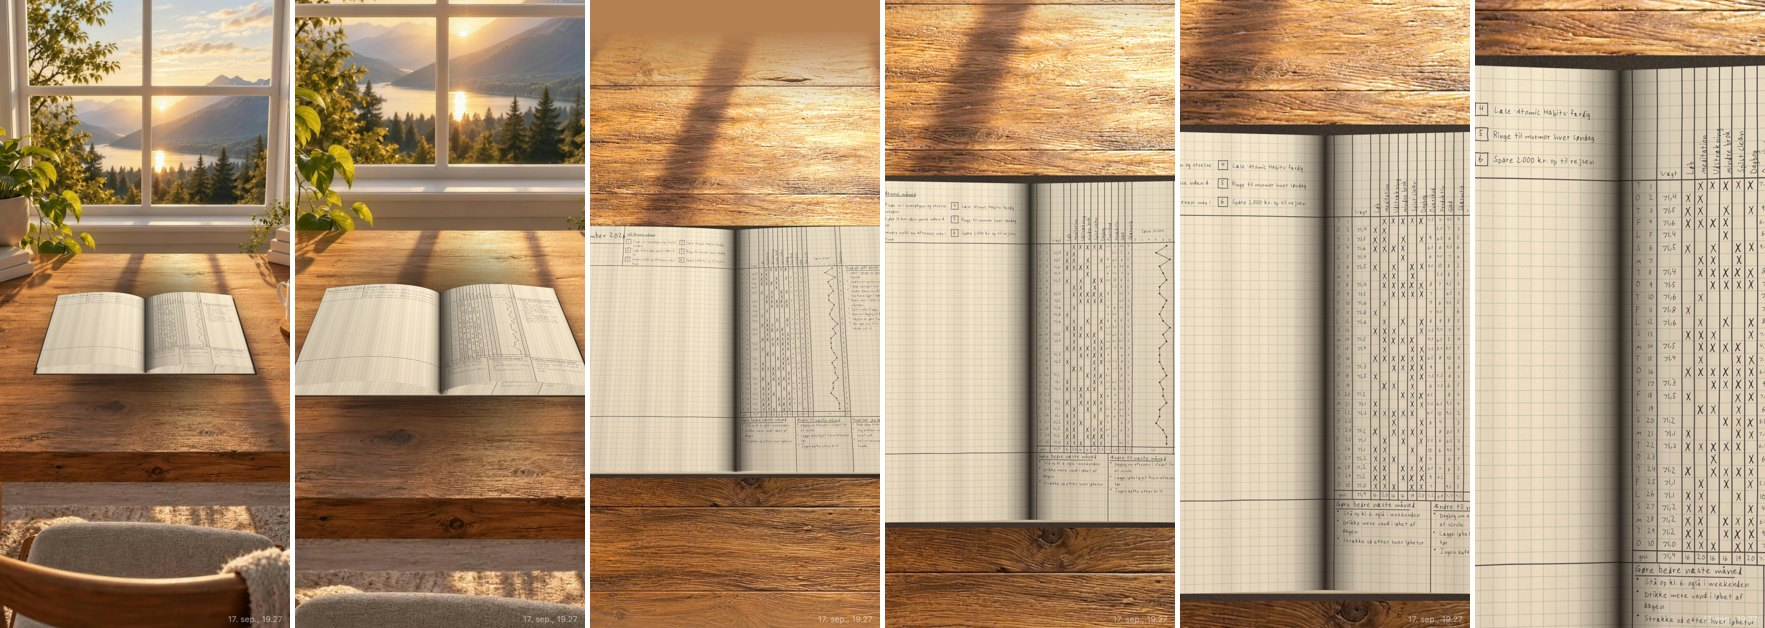
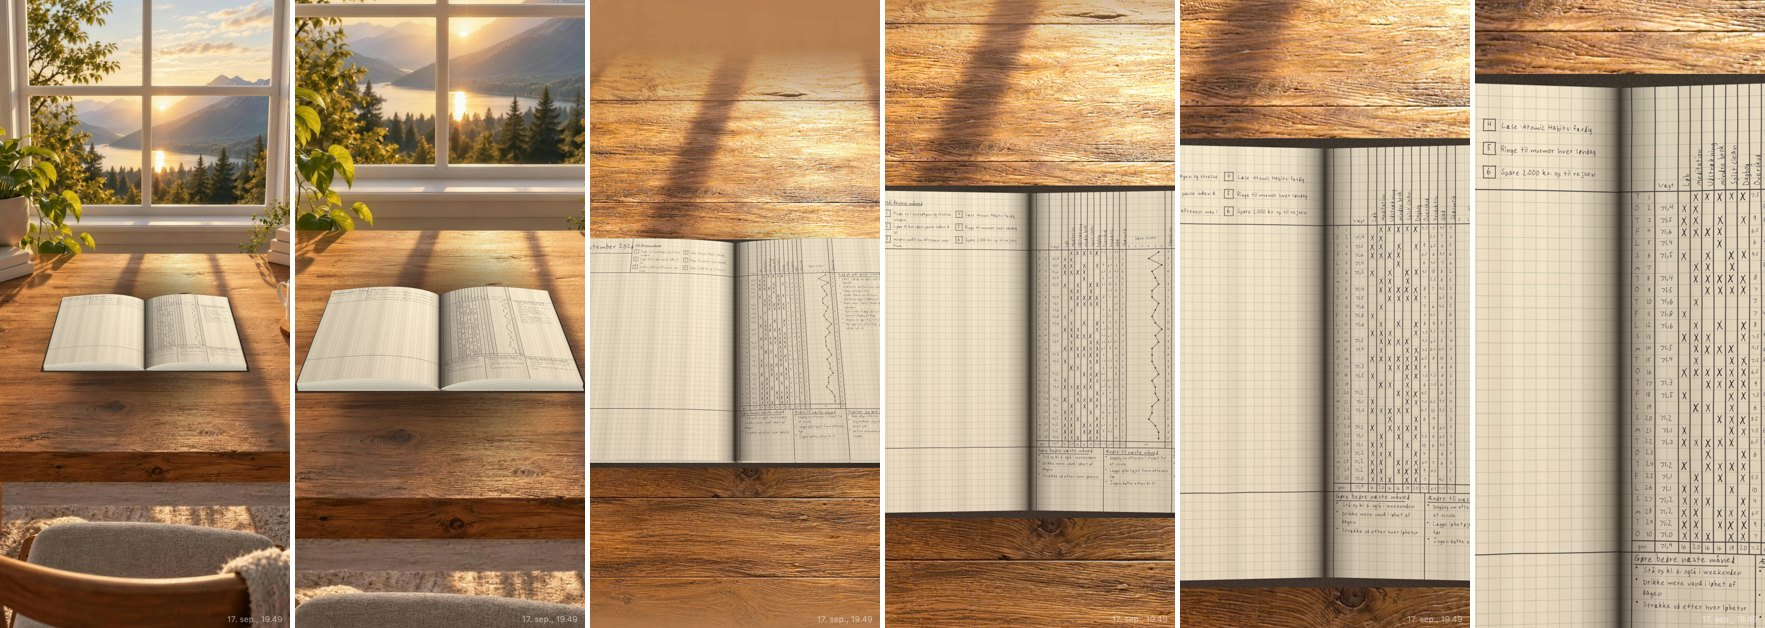
Bog3d runde 2 efter Lukas' feedback: rigtige papirlag i kanten, mindre bog, lysere fold, glattere zoom
- Den GAMLE flade sidestak (edge() i drawCover) tegnes ikke laengere i 3D. Den laa oven paa den nye og var det
  Lukas saa: sidens gitter og dens streger loeb ned over bogens tykkelse.
- Sidestakken er nu ark med en fast tykkelse i verdens-px, baaret som afstand ned fra sidens kant. Foer var den
  en 0..1-andel af et skoert der bliver tyndere mod ryggen, hvilket gav et moire-moenster. Tykkelsen aabnes op,
  naar man zoomer ud, saa to linjer aldrig kommer taettere end ca. 3 skaerm-px.
- Tegnerkkefoelge: braet, saa stak, saa sider. Braettet er bredere end stakken, saa tegnet sidst malede det hen
  over den, og stakken var naesten usynlig.
- Bogen ca. 6 procent mindre (BG i layout.ts). Folden lysere (FOLD_DARK 0,46 til 0,30).
- Bogen blev helt lille under pinch: midt i en pinch genbruger fitCanvas bufferen i en stoerre stoerrelse end det
  tegnede udsnit, men teksturen fik kun udsnittets maal, saa opslaget blev klemt ned i en broekdel af sin
  stoerrelse. Rektanglet daekker nu hele bufferen.
- Hakket: buen ligger nu i vertex-shaderen, saa mesh'et bygges EEN gang i stedet for ved hvert helt verdens-px af
  bue (54 genopbygninger pr. pinch). Og teksturen fornys ikke laengere ved udzoom, hvor den gamle kun kan vaere
  for skarp. Maalt: pinch-ud 2/132 frames over 33 ms (9 foer), pinch-ind 4/129 (som den gamle bog).

Changed region(s): [[0.3116, 0.0, 1.0, 1.0], [0.0, 0.4538, 0.3428, 0.6354], [0.1246, 0.9682, 0.1558, 0.9984]]

diff --git a/src/bog3d.ts b/src/bog3d.ts
@@ -30,27 +30,56 @@ const BOW = 0.7; // s^BOW inside the sine: < 1 moves the top of the arch towards
 const LIP = 10;
 
 const SEG_X = 56, SEG_Y = 10; // segments per page: across the curve, and along it
+/** How dark the fold goes, and the thinnest a sheet is allowed to look (world px). */
+const FOLD_DARK = 0.3;
+const SHEET_MIN = 1.8;
 
 /** Height of the page surface above the table, at distance `s` (0 at the spine, 1 at the fore-edge). */
 export const pageZ = (s: number, arch: number) =>
   COVER_T + STACK * s + arch * Math.sin(Math.PI * Math.pow(Math.max(0, Math.min(1, s)), BOW));
 
 const VERT = `
-attribute vec3 a_pos;      // x, y in spread coordinates; z in world px (already curved)
-attribute vec2 a_uv;       // 0..1 over the spread
-attribute float a_shade;   // 1 = full light, lower = in shadow
+attribute vec3 a_pos;      // x, y in spread coordinates; z = s, the distance from the spine (0..1)
+attribute vec3 a_meta;     // x: 0 lies on the board, 1 follows the page curve
+                           // y: fixed shade, or 0 to work it out from the slope
+                           // z: 0..1 across the page stack, for the sheet lines
 uniform vec2 u_view;       // where the spread's origin sits on screen
 uniform float u_scale;     // world px -> screen px
 uniform vec2 u_origin;     // the book's centre on screen: the tilt turns about it, as the CSS transform-origin did
 uniform vec2 u_trig;       // cos, sin of the tilt
 uniform float u_persp;     // perspective distance in screen px
 uniform vec2 u_res;        // canvas size in px
+uniform float u_foldDark;  // how deep the shadow in the fold goes
 uniform vec4 u_tex;        // the part of the spread the texture covers: x, y, w, h in spread coordinates
+uniform vec4 u_book;       // coverT, stack, arch, pageW: the shape of the open page
+uniform float u_spine;     // x of the fold, in spread coordinates
 varying vec2 v_uv;
 varying float v_shade;
+varying float v_layer;
+
+/** Height of the page above the board at distance s from the spine. */
+float pageZ(float s) {
+  s = clamp(s, 0.0, 1.0);
+  return u_book.x + u_book.y * s + u_book.z * sin(3.14159265 * pow(max(s, 0.0005), 0.7));
+}
+
 void main() {
+  float s = a_pos.z;
+  float z = a_meta.x < 0.5 ? u_book.x : pageZ(s);
+  if (a_meta.y > 0.0) {
+    v_shade = a_meta.y;
+  } else {
+    // the window is behind the book, so a slope facing away from the viewer catches the light and the fold is dark
+    float slope = (pageZ(s + 0.01) - pageZ(s - 0.01)) / (0.02 * u_book.w);
+    float dir = a_pos.x < u_spine ? -1.0 : 1.0;
+    float fold = 1.0 - min(1.0, s * 6.0);
+    v_shade = clamp(1.0 + (-dir * slope) * 0.55 - fold * fold * u_foldDark, 0.6, 1.06);
+  }
+  // the sheets have a real thickness, so the lines must keep their spacing all the way along the skirt: carry
+  // the distance DOWN from the page rim, in world px, not a 0..1 share of a skirt that thins out at the fold
+  v_layer = a_meta.z * (pageZ(s) - u_book.x);
   vec2 flat_px = u_view + a_pos.xy * u_scale;
-  float h = a_pos.z * u_scale;
+  float h = z * u_scale;
   vec2 d = flat_px - u_origin;
   float ry = d.y * u_trig.x - h * u_trig.y;
   float rz = d.y * u_trig.y + h * u_trig.x;
@@ -59,24 +88,31 @@ void main() {
   gl_Position = vec4((sp / u_res) * 2.0 - 1.0, 0.0, 1.0);
   gl_Position.y = -gl_Position.y;
   v_uv = (a_pos.xy - u_tex.xy) / u_tex.zw;
-  v_shade = a_shade;
 }`;
 
 const FRAG = `
 precision mediump float;
 varying vec2 v_uv;
 varying float v_shade;
+varying float v_layer;
 uniform sampler2D u_img;
 uniform vec4 u_flat;       // when a > 0: ignore the texture and use this colour (the page stack)
+uniform float u_sheets;    // one sheet every this many world px, widened when zoomed out so the lines never alias
 void main() {
   // zoomed in, the texture holds only the visible slice of the spread; the rest of the mesh is off screen anyway
   if (u_flat.a <= 0.0 && (v_uv.x < 0.0 || v_uv.x > 1.0 || v_uv.y < 0.0 || v_uv.y > 1.0)) discard;
-  vec4 c = u_flat.a > 0.0 ? vec4(u_flat.rgb, 1.0) : texture2D(u_img, v_uv);
+  if (u_flat.a > 0.0) {
+    // the page stack seen edge on: sheet after sheet lying on each other, never the page's own grid
+    float sheet = 0.86 + 0.14 * sin(v_layer / u_sheets * 6.2831853);
+    gl_FragColor = vec4(u_flat.rgb * v_shade * sheet, 1.0);
+    return;
+  }
+  vec4 c = texture2D(u_img, v_uv);
   if (c.a < 0.01) discard;
   gl_FragColor = vec4(c.rgb * v_shade, c.a);
 }`;
 
-type Mesh = { pos: Float32Array; shade: Float32Array; idx: Uint16Array; n: number };
+type Mesh = { pos: Float32Array; meta: Float32Array; idx: Uint16Array; n: number };
 
 function compile(gl: WebGLRenderingContext, type: number, src: string) {
   const sh = gl.createShader(type)!;
@@ -86,74 +122,64 @@ function compile(gl: WebGLRenderingContext, type: number, src: string) {
 }
 
 /**
- * Build the whole book for one arch height. Rebuilt whenever the arch changes, which is cheap: a few thousand
- * numbers, and only when the camera actually tips.
+ * The cover board and the two pages. Built once: the vertices carry `s`, the distance from the spine, and the
+ * shader turns that into a height, so changing the arch costs nothing.
+ *   a_pos  = x, y, s        a_meta = onCurve, fixedShade (0 = from the slope), layer
  */
-function build(arch: number): Mesh {
-  const pos: number[] = [], shade: number[] = [], idx: number[] = [];
-  const push = (x: number, y: number, z: number, sh: number) => { pos.push(x, y, z); shade.push(sh); return pos.length / 3 - 1; };
-  const quad = (a: number, b: number, c: number, d: number) => idx.push(a, b, c, a, c, d);
+function buildCover(): Mesh {
+  const pos = [-LIP, -LIP, 0, BOOK_W + LIP, -LIP, 0, BOOK_W + LIP, BOOK_H + LIP, 0, -LIP, BOOK_H + LIP, 0];
+  const meta = [0, 1, 0, 0, 1, 0, 0, 1, 0, 0, 1, 0];
+  const idx = [0, 1, 2, 0, 2, 3];
+  return { pos: new Float32Array(pos), meta: new Float32Array(meta), idx: new Uint16Array(idx), n: 6 };
+}
 
-  // the cover board, a little larger than the pages, lying flat
-  const c0 = push(-LIP, -LIP, COVER_T, 1);
-  const c1 = push(BOOK_W + LIP, -LIP, COVER_T, 1);
-  const c2 = push(BOOK_W + LIP, BOOK_H + LIP, COVER_T, 1);
-  const c3 = push(-LIP, BOOK_H + LIP, COVER_T, 1);
-  quad(c0, c1, c2, c3);
-
-  const top = COVER, bot = COVER + PAGE_H, spine = BOOK_W / 2;
-  // light: the window is behind the book, so the slope facing away from the viewer catches it and the fold is dark
-  const lightAt = (s: number, dir: number) => {
-    const slope = (pageZ(s + 0.01, arch) - pageZ(s - 0.01, arch)) / (0.02 * PAGE_W);
-    const facing = -dir * slope;                     // > 0 when the surface tilts away from the viewer
-    const fold = 1 - Math.min(1, s * 6);             // the last bit into the fold, where little light reaches
-    return Math.max(0.52, Math.min(1.06, 1.0 + facing * 0.55 - fold * fold * 0.46));
+function buildPages(): Mesh {
+  const pos: number[] = [], meta: number[] = [], idx: number[] = [];
+  const push = (x: number, y: number, s: number, curve: number, shade: number) => {
+    pos.push(x, y, s); meta.push(curve, shade, 0); return pos.length / 3 - 1;
   };
-
-  for (const dir of [-1, 1]) {                        // left page, then right
+  const quad = (a: number, b: number, c: number, d: number) => idx.push(a, b, c, a, c, d);
+  const top = COVER, bot = COVER + PAGE_H, spine = BOOK_W / 2;
+  for (const dir of [-1, 1]) {
     const grid: number[][] = [];
     for (let i = 0; i <= SEG_X; i++) {
-      const s = i / SEG_X;
-      const x = spine + dir * s * PAGE_W;
-      const z = pageZ(s, arch);
-      const sh = lightAt(s, dir);
-      const col: number[] = [];
-      for (let j = 0; j <= SEG_Y; j++) col.push(push(x, top + ((bot - top) * j) / SEG_Y, z, sh));
+      const s = i / SEG_X, x = spine + dir * s * PAGE_W, col: number[] = [];
+      for (let j = 0; j <= SEG_Y; j++) col.push(push(x, top + ((bot - top) * j) / SEG_Y, s, 1, 0));
       grid.push(col);
     }
     for (let i = 0; i < SEG_X; i++)
       for (let j = 0; j < SEG_Y; j++)
         quad(grid[i][j], grid[i + 1][j], grid[i + 1][j + 1], grid[i][j + 1]);
   }
-  return { pos: new Float32Array(pos), shade: new Float32Array(shade), idx: new Uint16Array(idx), n: idx.length };
+  return { pos: new Float32Array(pos), meta: new Float32Array(meta), idx: new Uint16Array(idx), n: idx.length };
 }
 
-/** The page stack: a skirt from each sheet's rim down to the board, in its own colour (no page content on it). */
-function buildEdges(arch: number): Mesh {
-  const pos: number[] = [], shade: number[] = [], idx: number[] = [];
-  const push = (x: number, y: number, z: number, sh: number) => { pos.push(x, y, z); shade.push(sh); return pos.length / 3 - 1; };
+/** The page stack: a skirt from each sheet's rim down to the board. `layer` runs 0..1 across it, which is what
+ *  draws the individual sheets in the fragment shader. */
+function buildEdges(): Mesh {
+  const pos: number[] = [], meta: number[] = [], idx: number[] = [];
+  const push = (x: number, y: number, s: number, curve: number, shade: number, layer: number) => {
+    pos.push(x, y, s); meta.push(curve, shade, layer); return pos.length / 3 - 1;
+  };
   const quad = (a: number, b: number, c: number, d: number) => idx.push(a, b, c, a, c, d);
   const top = COVER, bot = COVER + PAGE_H, spine = BOOK_W / 2;
 
   for (const dir of [-1, 1]) {
     const xo = spine + dir * PAGE_W;                  // the fore-edge
-    const zo = pageZ(1, arch);
     // fore-edge: straight down to the board
-    const a = push(xo, top, zo, 1.0), b = push(xo, bot, zo, 0.98);
-    const c = push(xo, bot, COVER_T, 0.72), d = push(xo, top, COVER_T, 0.76);
-    quad(a, b, c, d);
+    quad(push(xo, top, 1, 1, 1.0, 0), push(xo, bot, 1, 1, 0.98, 0),
+         push(xo, bot, 1, 0, 0.74, 1), push(xo, top, 1, 0, 0.78, 1));
     // the long edges, top and bottom: they follow the curve, so one quad per segment
-    for (const [y, sh] of [[top, 0.7], [bot, 1.0]] as const) {
+    for (const [y, sh] of [[top, 0.84], [bot, 1.06]] as const) {
       for (let i = 0; i < SEG_X; i++) {
         const s0 = i / SEG_X, s1 = (i + 1) / SEG_X;
         const x0 = spine + dir * s0 * PAGE_W, x1 = spine + dir * s1 * PAGE_W;
-        const p0 = push(x0, y, pageZ(s0, arch), sh), p1 = push(x1, y, pageZ(s1, arch), sh);
-        const p2 = push(x1, y, COVER_T, sh * 0.78), p3 = push(x0, y, COVER_T, sh * 0.78);
-        quad(p0, p1, p2, p3);
+        quad(push(x0, y, s0, 1, sh, 0), push(x1, y, s1, 1, sh, 0),
+             push(x1, y, s1, 0, sh * 0.8, 1), push(x0, y, s0, 0, sh * 0.8, 1));
       }
     }
   }
-  return { pos: new Float32Array(pos), shade: new Float32Array(shade), idx: new Uint16Array(idx), n: idx.length };
+  return { pos: new Float32Array(pos), meta: new Float32Array(meta), idx: new Uint16Array(idx), n: idx.length };
 }
 
 export type Book3D = {
@@ -180,12 +206,13 @@ export function createBook3D(canvas: HTMLCanvasElement, persp: number): Book3D |
   const U = {
     view: loc("u_view"), scale: loc("u_scale"), origin: loc("u_origin"), trig: loc("u_trig"),
     persp: loc("u_persp"), res: loc("u_res"), tex: loc("u_tex"), flat: loc("u_flat"), img: loc("u_img"),
+    book: loc("u_book"), spine: loc("u_spine"), fold: loc("u_foldDark"), sheets: loc("u_sheets"),
   };
-  const aPos = gl.getAttribLocation(prog, "a_pos"), aShade = gl.getAttribLocation(prog, "a_shade");
+  const aPos = gl.getAttribLocation(prog, "a_pos"), aMeta = gl.getAttribLocation(prog, "a_meta");
   /** One set of buffers per mesh, so a frame that changes nothing only binds them. Re-uploading both meshes
    *  every frame cost ~45 ms on roughly every ninth frame of a pinch. */
-  const slot = () => ({ pos: gl.createBuffer()!, shade: gl.createBuffer()!, idx: gl.createBuffer()!, n: 0 });
-  const slots = { pages: slot(), edges: slot() };
+  const slot = () => ({ pos: gl.createBuffer()!, meta: gl.createBuffer()!, idx: gl.createBuffer()!, n: 0 });
+  const slots = { cover: slot(), pages: slot(), edges: slot() };
   const tex = gl.createTexture()!;
   gl.bindTexture(gl.TEXTURE_2D, tex);
   for (const p of [gl.TEXTURE_WRAP_S, gl.TEXTURE_WRAP_T]) gl.texParameteri(gl.TEXTURE_2D, p, gl.CLAMP_TO_EDGE);
@@ -195,21 +222,27 @@ export function createBook3D(canvas: HTMLCanvasElement, persp: number): Book3D |
   gl.blendFunc(gl.ONE, gl.ONE_MINUS_SRC_ALPHA);
 
   let texRect = { x: 0, y: 0, w: BOOK_W, h: BOOK_H };
-  let builtFor = -1;
+
 
   const fill = (sl: typeof slots.pages, m: Mesh) => {
-    gl.bindBuffer(gl.ARRAY_BUFFER, sl.pos); gl.bufferData(gl.ARRAY_BUFFER, m.pos, gl.DYNAMIC_DRAW);
-    gl.bindBuffer(gl.ARRAY_BUFFER, sl.shade); gl.bufferData(gl.ARRAY_BUFFER, m.shade, gl.DYNAMIC_DRAW);
-    gl.bindBuffer(gl.ELEMENT_ARRAY_BUFFER, sl.idx); gl.bufferData(gl.ELEMENT_ARRAY_BUFFER, m.idx, gl.DYNAMIC_DRAW);
+    gl.bindBuffer(gl.ARRAY_BUFFER, sl.pos); gl.bufferData(gl.ARRAY_BUFFER, m.pos, gl.STATIC_DRAW);
+    gl.bindBuffer(gl.ARRAY_BUFFER, sl.meta); gl.bufferData(gl.ARRAY_BUFFER, m.meta, gl.STATIC_DRAW);
+    gl.bindBuffer(gl.ELEMENT_ARRAY_BUFFER, sl.idx); gl.bufferData(gl.ELEMENT_ARRAY_BUFFER, m.idx, gl.STATIC_DRAW);
     sl.n = m.n;
   };
   const bind = (sl: typeof slots.pages) => {
     gl.bindBuffer(gl.ARRAY_BUFFER, sl.pos);
     gl.enableVertexAttribArray(aPos); gl.vertexAttribPointer(aPos, 3, gl.FLOAT, false, 0, 0);
-    gl.bindBuffer(gl.ARRAY_BUFFER, sl.shade);
-    gl.enableVertexAttribArray(aShade); gl.vertexAttribPointer(aShade, 1, gl.FLOAT, false, 0, 0);
+    gl.bindBuffer(gl.ARRAY_BUFFER, sl.meta);
+    gl.enableVertexAttribArray(aMeta); gl.vertexAttribPointer(aMeta, 3, gl.FLOAT, false, 0, 0);
     gl.bindBuffer(gl.ELEMENT_ARRAY_BUFFER, sl.idx);
   };
+
+  // built once: the vertices carry the distance from the spine and the shader turns it into a height, so
+  // changing the arch mid-pinch costs nothing at all
+  fill(slots.cover, buildCover());
+  fill(slots.pages, buildPages());
+  fill(slots.edges, buildEdges());
 
   return {
     setTexture(src, rect) {
@@ -223,7 +256,6 @@ export function createBook3D(canvas: HTMLCanvasElement, persp: number): Book3D |
       gl.viewport(0, 0, w, h);
       gl.clearColor(0, 0, 0, 0);
       gl.clear(gl.COLOR_BUFFER_BIT);
-      if (arch !== builtFor) { fill(slots.pages, build(arch)); fill(slots.edges, buildEdges(arch)); builtFor = arch; }
       gl.useProgram(prog);
       gl.uniform2f(U.view, view.x, view.y);
       gl.uniform1f(U.scale, view.s);
@@ -232,16 +264,24 @@ export function createBook3D(canvas: HTMLCanvasElement, persp: number): Book3D |
       gl.uniform1f(U.persp, persp);
       gl.uniform2f(U.res, w, h);
       gl.uniform4f(U.tex, texRect.x, texRect.y, texRect.w, texRect.h);
+      gl.uniform4f(U.book, COVER_T, STACK, arch, PAGE_W);
+      gl.uniform1f(U.spine, BOOK_W / 2);
+      gl.uniform1f(U.fold, FOLD_DARK);
+      // a sheet must stay at least ~3 screen px apart, or the lines turn into a moire pattern
+      gl.uniform1f(U.sheets, Math.max(SHEET_MIN, 3 / Math.max(view.s, 0.001)));
       gl.activeTexture(gl.TEXTURE0);
       gl.bindTexture(gl.TEXTURE_2D, tex);
-      // the stack first: the pages sit on top of it
-      gl.uniform4f(U.flat, 0.93, 0.90, 0.80, 1);
+      // board, then the page stack standing on it, then the pages on top: the board is wider than the stack,
+      // so drawn later it would paint right over it
+      gl.uniform4f(U.flat, 0, 0, 0, 0);
+      bind(slots.cover); gl.drawElements(gl.TRIANGLES, slots.cover.n, gl.UNSIGNED_SHORT, 0);
+      gl.uniform4f(U.flat, 0.95, 0.92, 0.83, 1);
       bind(slots.edges); gl.drawElements(gl.TRIANGLES, slots.edges.n, gl.UNSIGNED_SHORT, 0);
       gl.uniform4f(U.flat, 0, 0, 0, 0);
       bind(slots.pages); gl.drawElements(gl.TRIANGLES, slots.pages.n, gl.UNSIGNED_SHORT, 0);
     },
     dispose() {
-      for (const sl of [slots.pages, slots.edges]) for (const b of [sl.pos, sl.shade, sl.idx]) gl.deleteBuffer(b);
+      for (const sl of [slots.cover, slots.pages, slots.edges]) for (const b of [sl.pos, sl.meta, sl.idx]) gl.deleteBuffer(b);
       gl.deleteTexture(tex);
       gl.deleteProgram(prog);
     },

diff --git a/src/BookCanvas.tsx b/src/BookCanvas.tsx
@@ -1,5 +1,5 @@
 import { forwardRef, useImperativeHandle, useLayoutEffect, useRef, type ReactNode } from "react";
-import { BG, BOOK_H, BOOK_T, BOOK_W, TABLE, TABLE_PAD } from "./layout";
+import { BG, BOOK_H, BOOK_T, BOOK_W, TABLE, TABLE_PAD, USE_3D } from "./layout";
 import { ARCH, createBook3D, type Book3D } from "./bog3d";
 import type { Plane, View } from "./draw";
 
@@ -13,8 +13,6 @@ const PIXEL_BUDGET = 9e6; // max canvas pixels (iOS is strict about big canvases
 const LIVE_BUDGET = 2e6; // budget for the quick redraws in the middle of a pinch
 const LIVE_RATIO = 1.15; // redraw mid-pinch once the bitmap is stretched this much
 const LIVE_GAP = 120; // ms between such redraws
-/** ?bog3d: the book as real curved geometry in WebGL instead of the flat CSS-tilted plate. */
-const USE_3D = new URLSearchParams(location.search).has("bog3d");
 
 export type BookCanvasHandle = { redraw: () => void };
 
@@ -89,6 +87,7 @@ export const BookCanvas = forwardRef<BookCanvasHandle, {
       // the book is redrawn in full every frame: the mesh is a few thousand vertices and the page texture only
       // changes when render() runs, so the tilt and the curve stay exact all the way through a pinch.
       const v = view.current!, dpr = window.devicePixelRatio || 1;
+      if (!v.clientWidth || !v.clientHeight) return; // mid-layout: drawing into a zero-sized canvas blanked the book
       book3d.current?.draw({
         w: Math.round(v.clientWidth * dpr), h: Math.round(v.clientHeight * dpr),
         view: { x: x * dpr, y: y * dpr, s: s * dpr },
@@ -139,8 +138,13 @@ export const BookCanvas = forwardRef<BookCanvasHandle, {
     const bp = { x0: bx0, y0: by0, w: Math.max(1, bx1 - bx0), h: Math.max(1, by1 - by0), k: p.k };
     fitCanvas(bookCanvas.current!, bp, live);
     drawRef.current(bookCanvas.current!.getContext("2d")!, committed.current, bp);
-    if (USE_3D) book3d.current?.setTexture(bookCanvas.current!,
-      { x: (bp.x0 - x) / s, y: (bp.y0 - y) / s, w: bp.w / s, h: bp.h / s });
+    // The texture is the WHOLE canvas buffer, which mid-pinch is deliberately larger than the part just drawn
+    // (fitCanvas reuses it rather than reallocating). Telling the mesh it only covers bp squeezed the spread into
+    // a fraction of its size for a frame - the book "went small" while pinching.
+    if (USE_3D) {
+      const cv = bookCanvas.current!;
+      book3d.current?.setTexture(cv, { x: (bp.x0 - x) / s, y: (bp.y0 - y) / s, w: cv.width / bp.k / s, h: cv.height / bp.k / s });
+    }
     lastRender.current = performance.now();
     paint();
   };
@@ -152,8 +156,11 @@ export const BookCanvas = forwardRef<BookCanvasHandle, {
     // in 3D the shader re-projects and re-curves every frame on its own; the texture is only about sharpness,
     // so it can be refreshed at a calmer pace. Flat, the bitmap IS the picture, so it keeps the old cadence.
     const gap = USE_3D ? 260 : LIVE_GAP, grow = USE_3D ? 1.5 : LIVE_RATIO;
-    const tipped = !USE_3D && (tiltFor(s) > 0) !== (tiltFor(cs) > 0);
-    if ((ratio > grow || ratio < 1 / grow || tipped) && performance.now() - lastRender.current > gap) render(LIVE_BUDGET);
+    // Zooming OUT in 3D the old texture is only ever too sharp, so it can stay; the one case that must be caught
+    // is going from flat to curved, where the texture holds a slice and the mesh needs the whole spread.
+    const tipped = USE_3D ? tiltFor(s) > 0 && tiltFor(cs) === 0 : (tiltFor(s) > 0) !== (tiltFor(cs) > 0);
+    const stale = USE_3D ? ratio > grow : ratio > grow || ratio < 1 / grow;
+    if ((stale || tipped) && performance.now() - lastRender.current > gap) render(LIVE_BUDGET);
   };
 
   useImperativeHandle(ref, () => ({ redraw: () => { if (t.current.s) render(); } }), []);

diff --git a/src/draw.ts b/src/draw.ts
@@ -3,7 +3,7 @@ import { drawInBox, drawText, widthOfText } from "./glyf";
 import {
   CELL, PAGE_W, PAGE_H, COVER, BOOK_W, BOOK_H, LEFT_PAGE, RIGHT_PAGE, HEADER_Y, TABLE_LEFT, DAY_COL_W,
   TITLE_BOX_X, TITLE_BOX_Y, GOALS, goalPos, goalTextBox, widthOf, dotX, columnXs, bottomY, noteBoxes, NOTE_LABEL,
-  type Column, type NoteField, type Rect,
+  USE_3D, type Column, type NoteField, type Rect,
 } from "./layout";
 
 /**
@@ -190,10 +190,14 @@ function drawCover(ctx: Ctx, vis: Rect, assets: Assets) {
     for (let i = 1; i < n; i++) { if (horizontal) { ctx.moveTo(x, y + i * 2.5); ctx.lineTo(x + w, y + i * 2.5); } else { ctx.moveTo(x + i * 2.5, y); ctx.lineTo(x + i * 2.5, y + h); } }
     ctx.stroke();
   };
-  // a narrow band of page edges just outside the pages; the rest of COVER stays black board
-  edge(COVER - 8, COVER + 2, 8, PAGE_H + 2, false);
-  edge(BOOK_W - COVER, COVER + 2, 8, PAGE_H + 2, false);
-  edge(COVER, BOOK_H - COVER, BOOK_W - 2 * COVER, 8, true);
+  // A narrow band of page edges just outside the pages; the rest of COVER stays black board. In 3D the stack is
+  // real geometry, and this flat version would sit on top of it – Lukas saw the page grid and its lines running
+  // down over the book's thickness.
+  if (!USE_3D) {
+    edge(COVER - 8, COVER + 2, 8, PAGE_H + 2, false);
+    edge(BOOK_W - COVER, COVER + 2, 8, PAGE_H + 2, false);
+    edge(COVER, BOOK_H - COVER, BOOK_W - 2 * COVER, 8, true);
+  }
   // elastic loop
   ctx.fillStyle = "#101010"; roundRect(ctx, BOOK_W - 50, BOOK_H * 0.54, 44, 60, 3); ctx.fill();
 }

diff --git a/src/layout.ts b/src/layout.ts
@@ -1,3 +1,7 @@
+/** ?bog3d: the book as real curved geometry instead of the flat CSS-tilted plate. Read here so both the
+ *  drawing and the canvas component see the same answer. */
+export const USE_3D = new URLSearchParams(location.search).has("bog3d");
+
 /** Geometry of the spread in world pixels (1 grid square = 20 px). Shared by drawing and hit-testing. */
 export const CELL = 20, PAGE_W = 704, PAGE_H = 1000, COVER = 24;
 export const BOOK_W = PAGE_W * 2 + COVER * 2, BOOK_H = PAGE_H + COVER * 2;
@@ -5,7 +9,7 @@ export const LEFT_PAGE = { x: COVER, y: COVER }, RIGHT_PAGE = { x: COVER + PAGE_
 /** The background photo (9:16), in world units relative to the book's top-left corner. Its size sets how big
  *  the book is on the table, its offset where on the table it lies (the book tips over its own centre, so the centre
  *  stays put at every zoom; tuned by eye against the photo). */
-export const BG = { x: -570, y: -1922, w: 2596, h: 4615 };
+export const BG = { x: -648, y: -2069, w: 2752, h: 4892 };
 /** The sharp top-down table top (public/baggrund/bord.webp, 3:4): centred on the book and big enough to fill the screen once the book lies flat, in world units. It fades in
  *  as the camera goes overhead, so looking straight down you see the table from above – crisp, and with no far edge for
  *  the book to grow past as it unfolds. Its edges are faded in the file itself, so it blends into the photo. */
